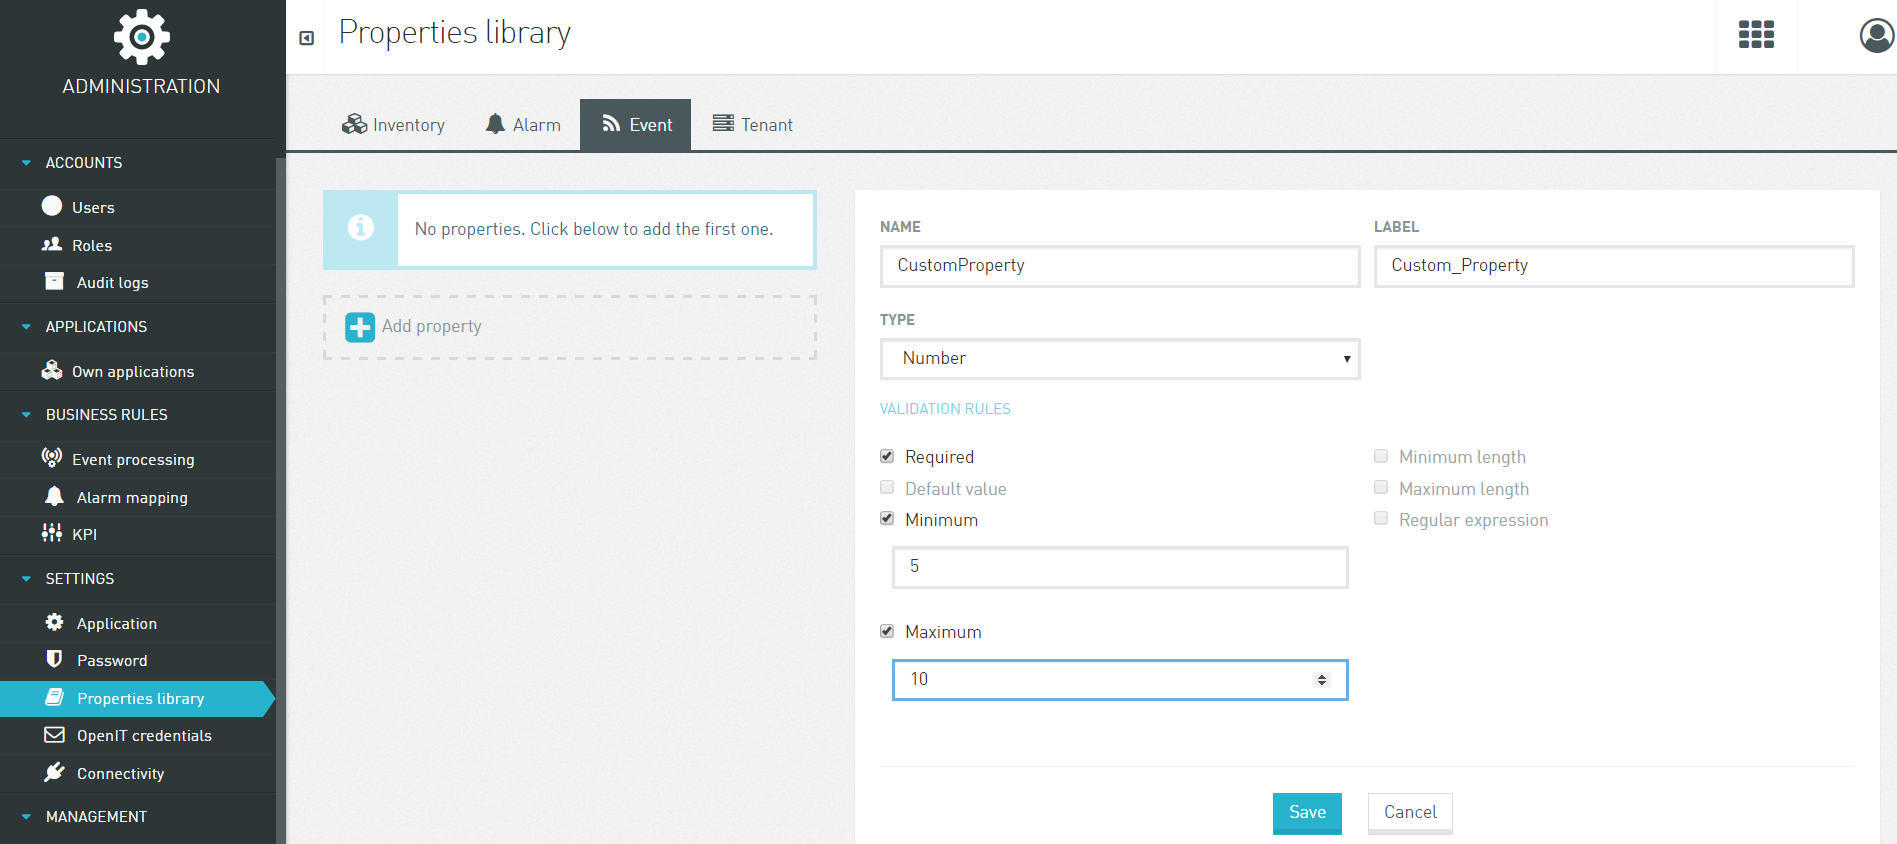
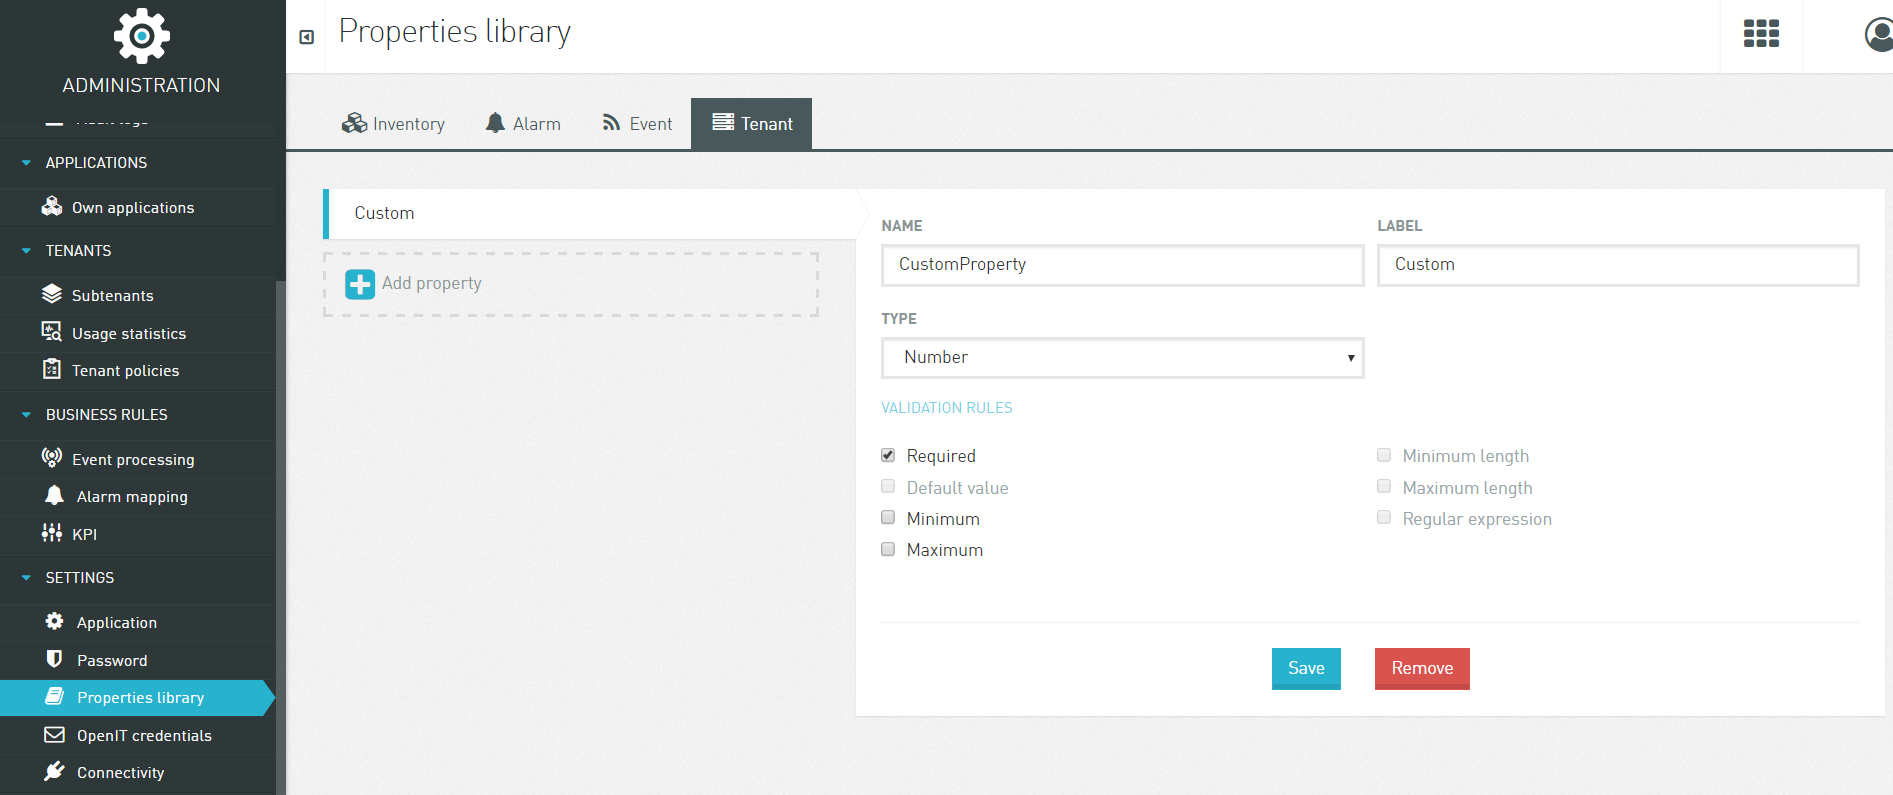
Properties library doc update, added a new screenshot

diff --git a/src/documents/guides/users-guide/administration.html.md b/src/documents/guides/users-guide/administration.html.md
@@ -414,7 +414,7 @@ In the properties library, additional custom properties can be added to tenants,
 
 ![Properties library](/guides/users-guide/properties_library.png)
 
-To create a new property click on "Add property". Afterwards, a form will pop-up. Enter the name of the new property, label and select the desired type of the property (String, number, boolean, etc.). Additionally, you can also check the validation rules which will be required for the new property: 
+To create a new property, click on "Add property". Afterwards, a form will pop-up. Enter the name of the new property, enter the label and select the desired type of the property (String, number, boolean, etc.). Additionally, you can also check the validation rules which will be required for the new property:
 
 - "Required": If this validation rule is checked, the property will be required to be filled (During alarm creation for example). If the property type is "Boolean", this rule cannot be checked.
 - "Default Value":  Add a default value which will be automatically filled in the custom property field. Please note that, only "String" type properties can have this validation rule.
@@ -424,9 +424,13 @@ To create a new property click on "Add property". Afterwards, a form will pop-up
 - "Maximum length": Enter the maximum length required for the string.
 - "Regular expression": Add the regular expression which will be required in order to fill the custom property field.
 
-When ready, click save. 
+When ready, click save.
 
 ![Add new property](/guides/users-guide/addproperty.png)
+
+Once created, the custom properties can be observed in the “Custom properties” tab as shown in the screenshot below. In this case, a tenant property named “Custom” was created. 
+
+![Custom properties tab](/guides/users-guide/customproptab.png)
 
 To edit a property, simply click on the name of the property. To remove a property, click on the property first and then click on “Remove”.
 
